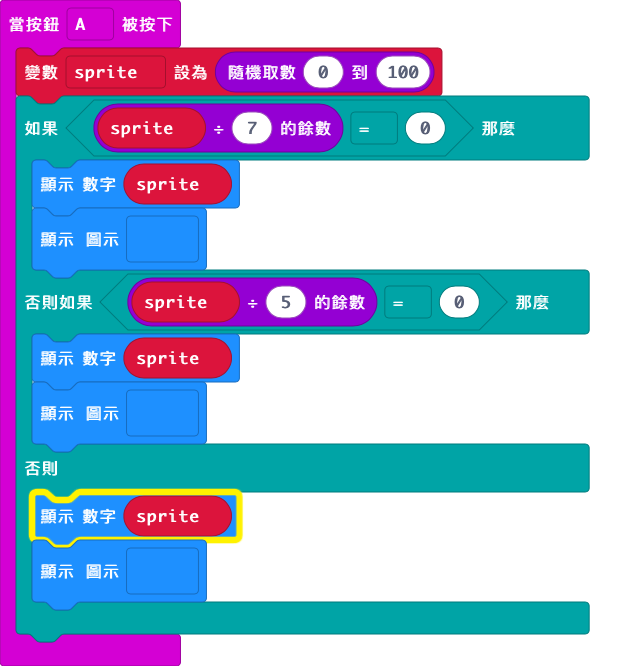
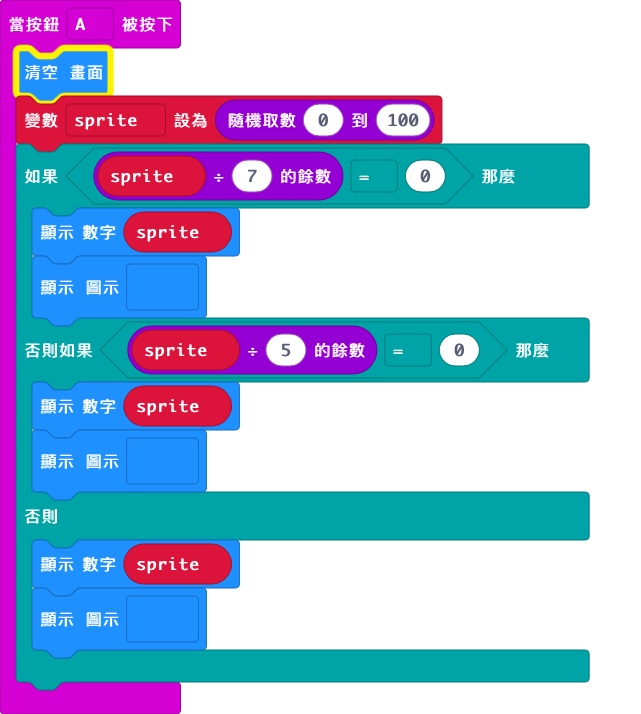
Update main.blocks, main.ts

diff --git a/main.ts b/main.ts
@@ -1,5 +1,6 @@
 let sprite = 0
 input.onButtonPressed(Button.A, function () {
+    basic.clearScreen()
     sprite = randint(0, 100)
     if (sprite % 7 == 0) {
         basic.showNumber(sprite)
